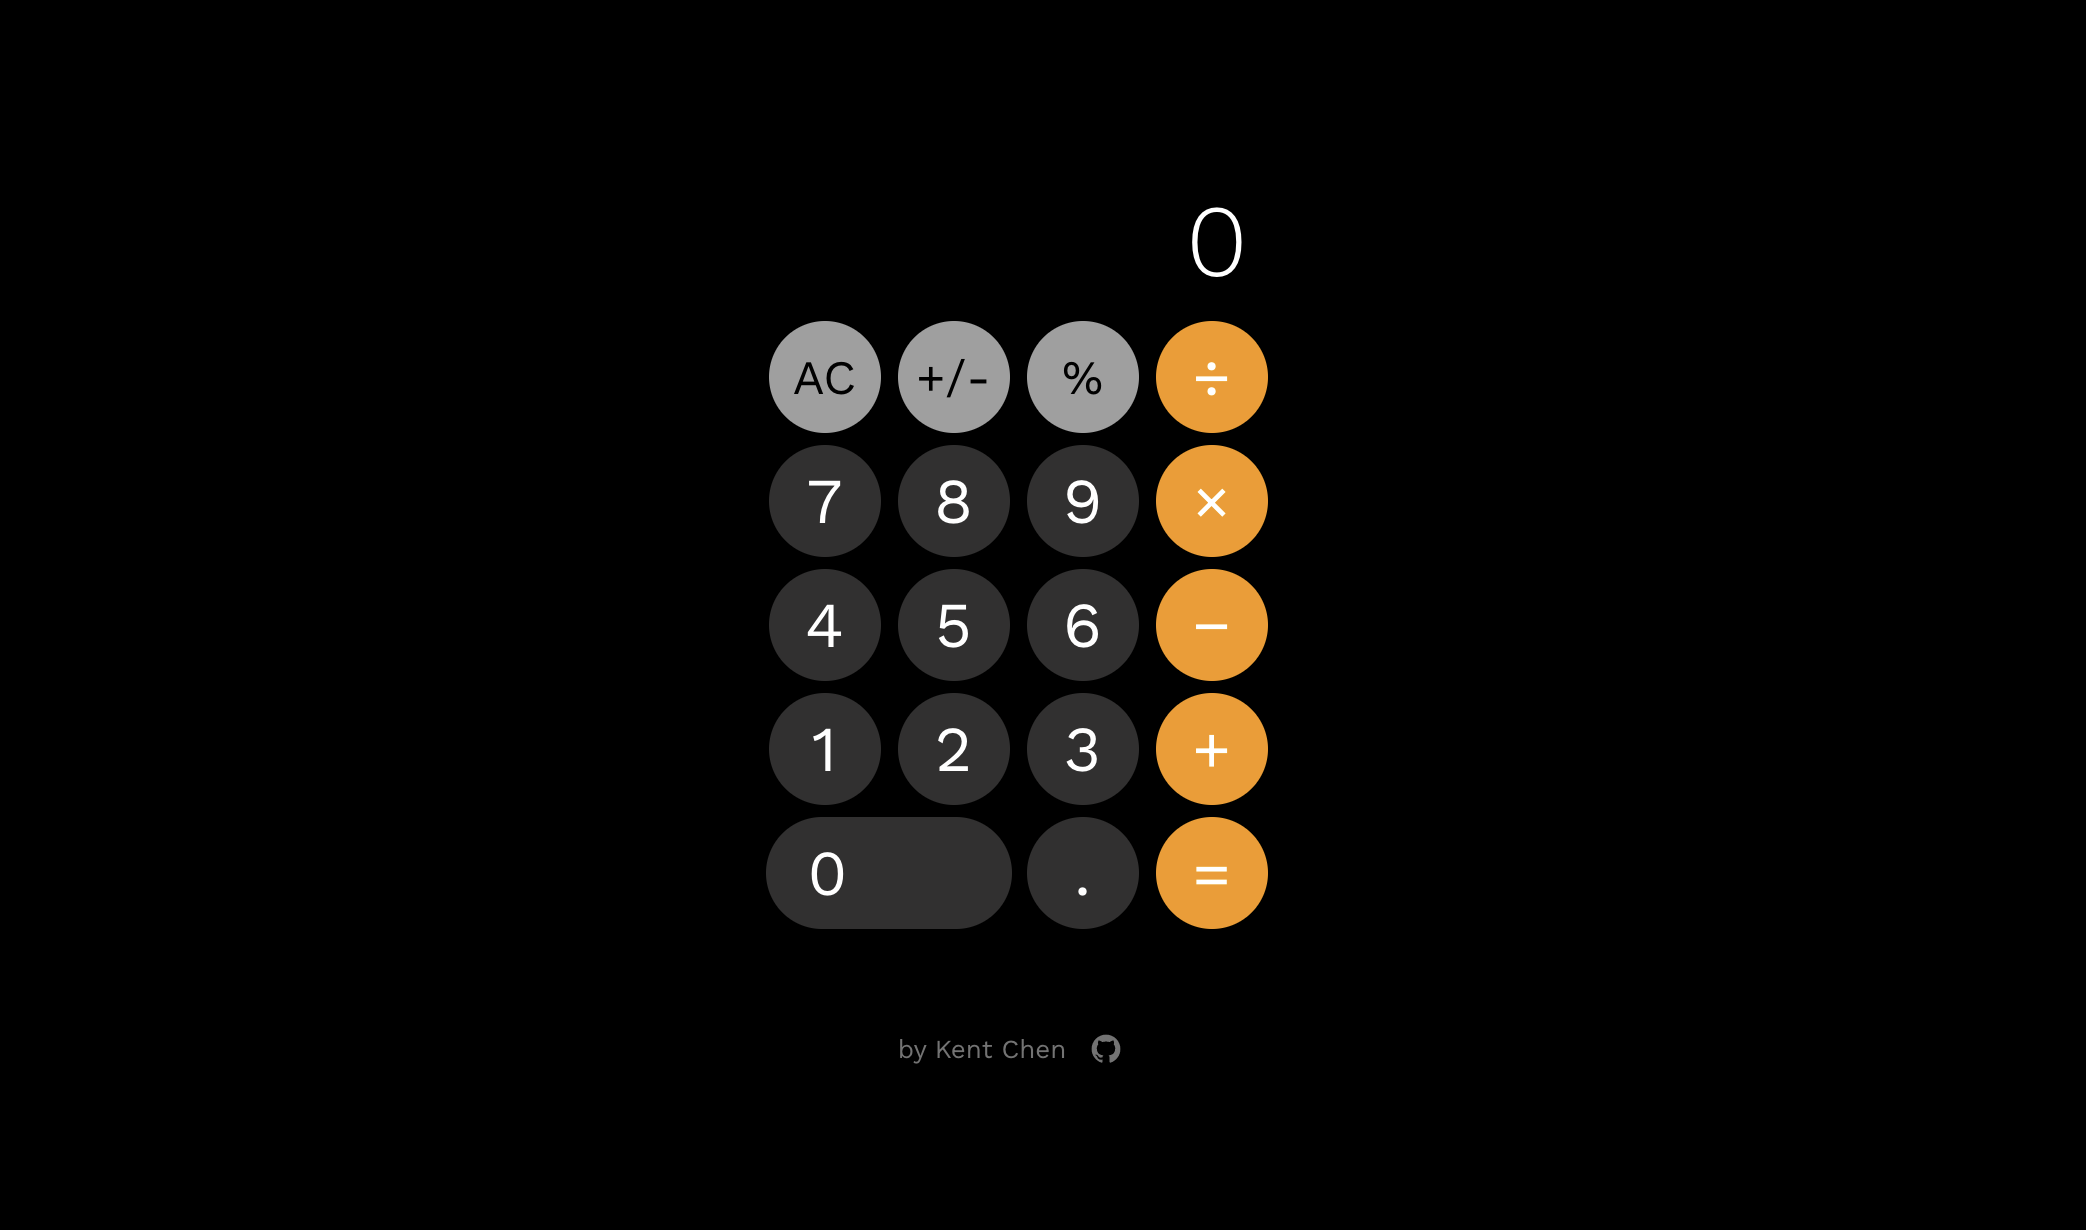
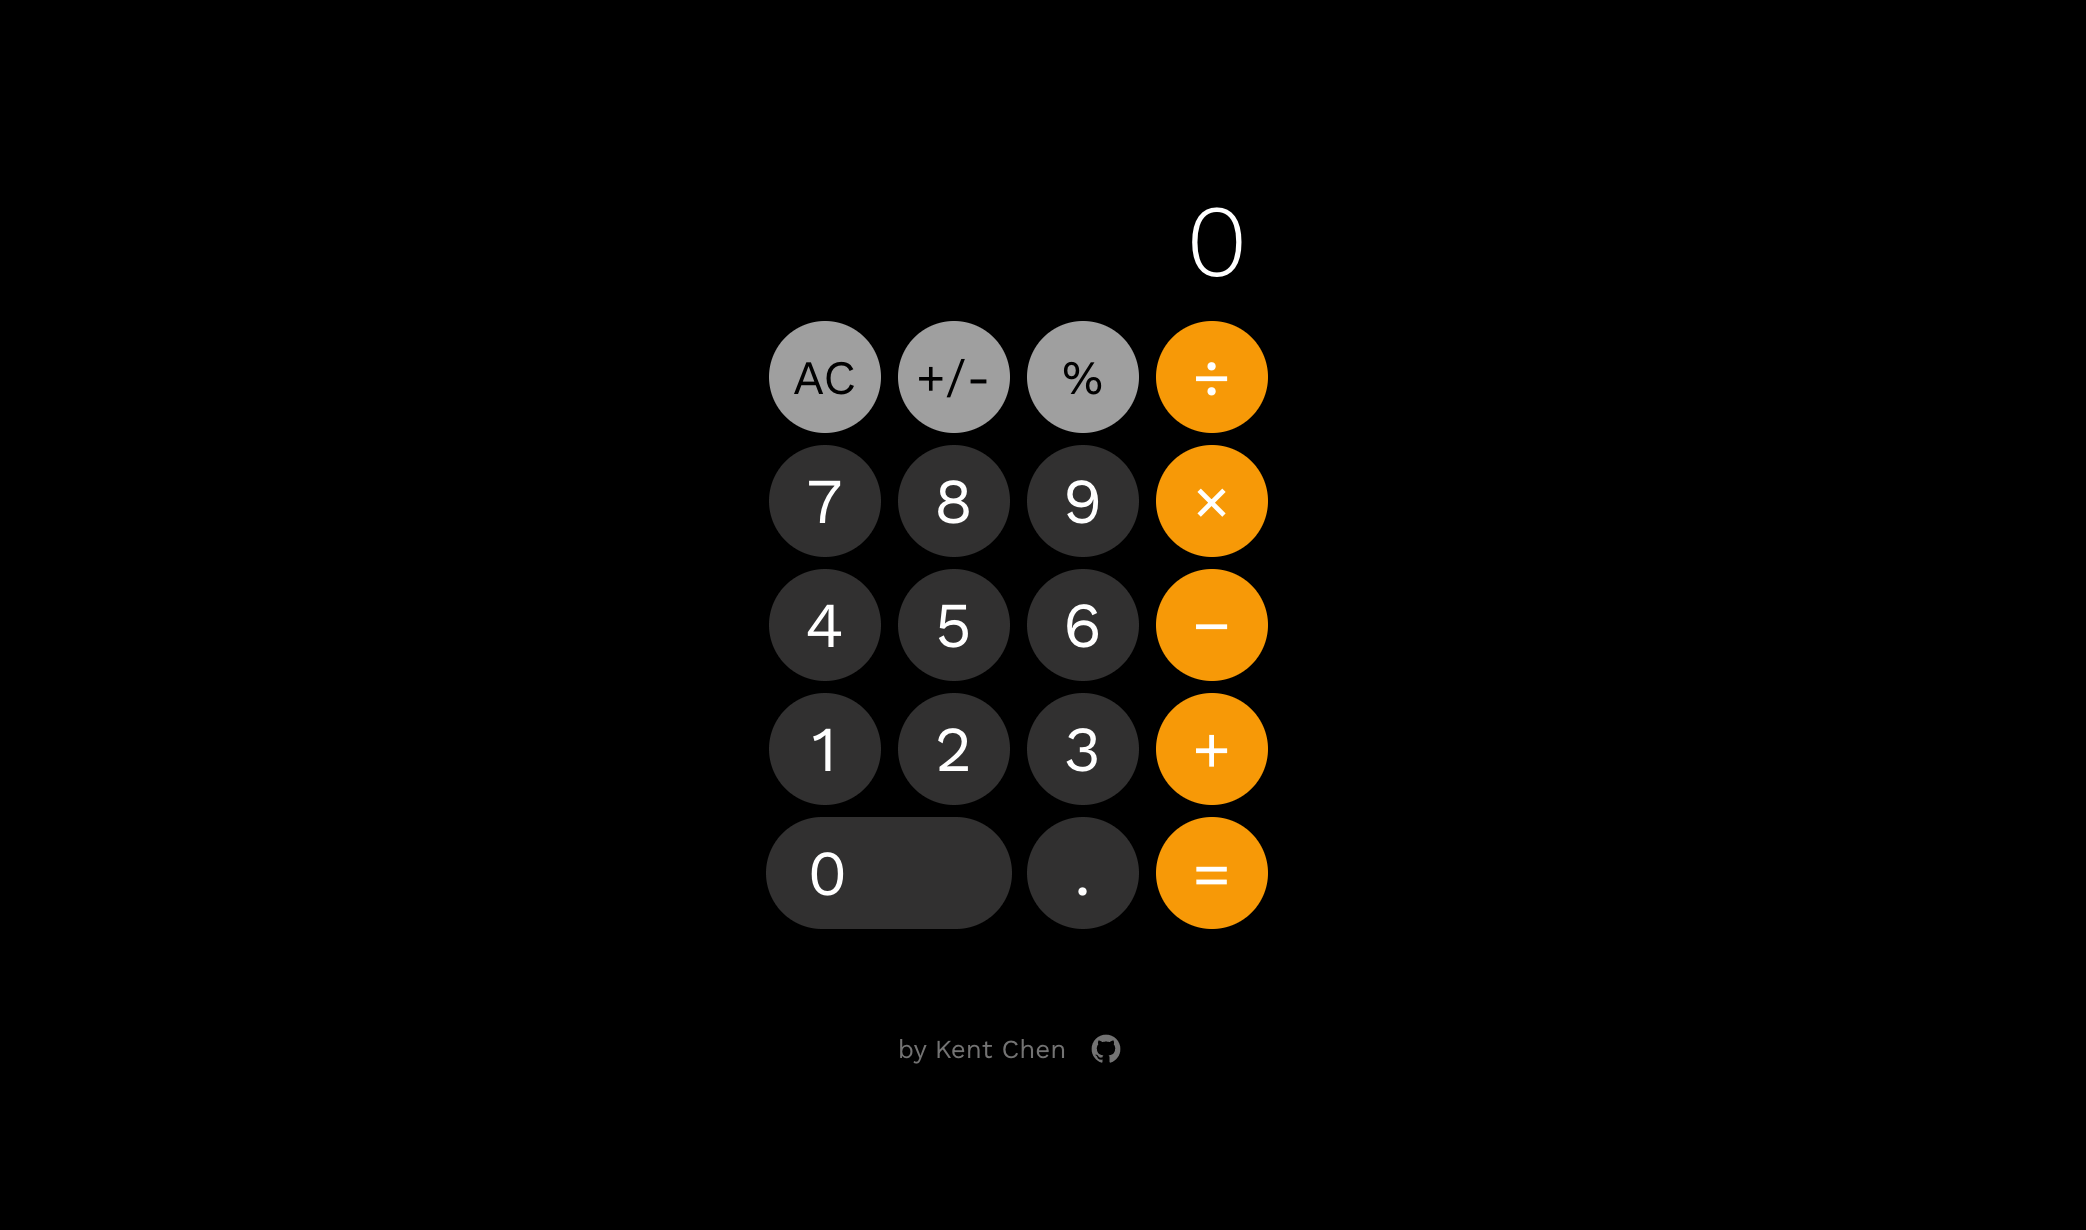
compress screenshot

Changed region(s): [[0.5297, 0.2472, 0.6232, 0.7724]]

diff --git a/calculator/README.md b/calculator/README.md
@@ -1,0 +1,7 @@
+### Calculator
+
+This is one of the frontend development challenges in the freecodecamp frontend curriculum.
+Take a look at my other freecodecamp [frontend projects](https://github.com/cgyinthehouse/FCC-frontend-projects.git).
+
+screenshot
+![screenshot](https://raw.githubusercontent.com/cgyinthehouse/FCC-frontend-projects/main/calculator/screenshots/c-screenshot1.png)
